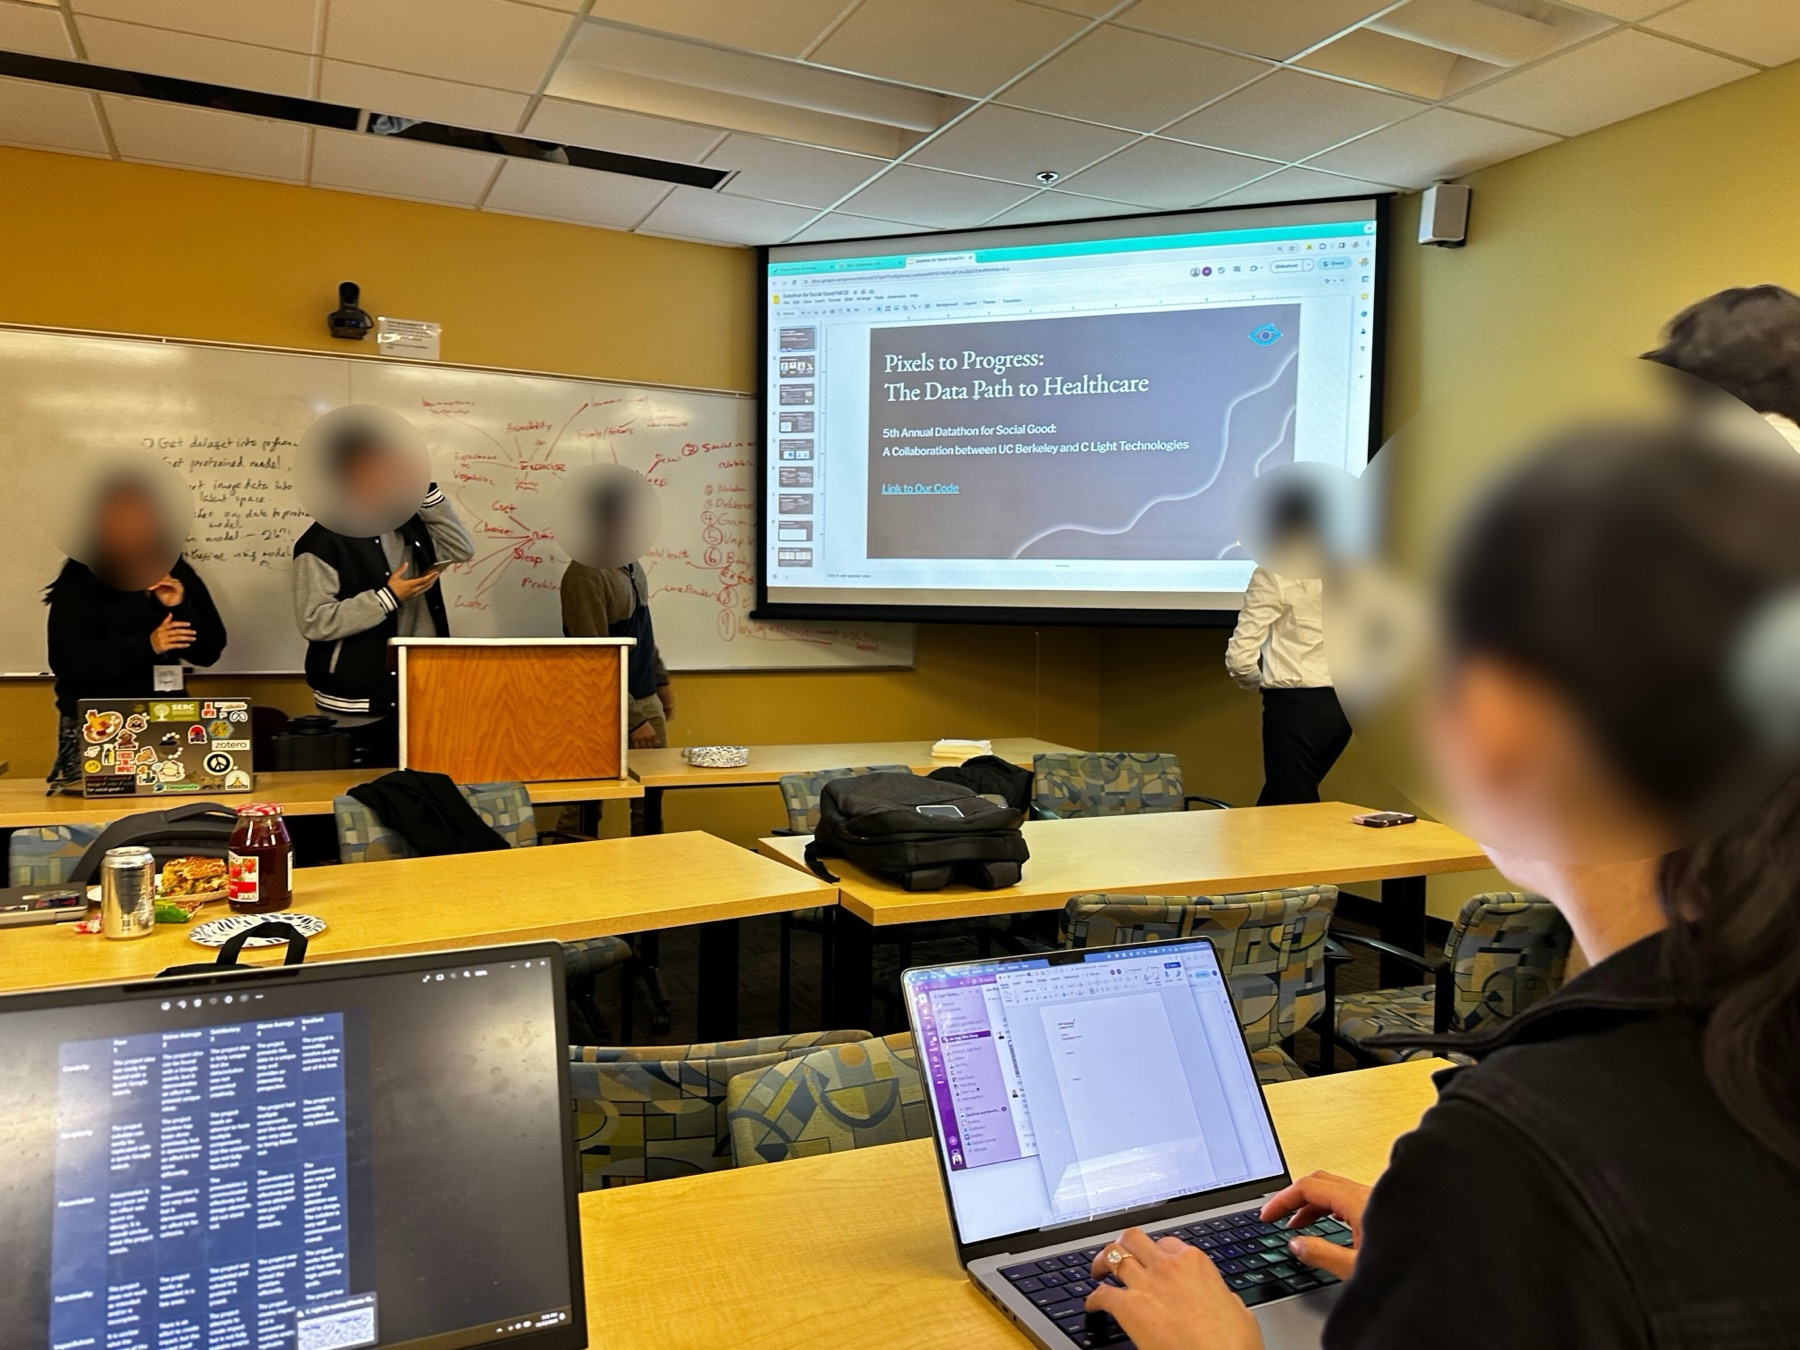
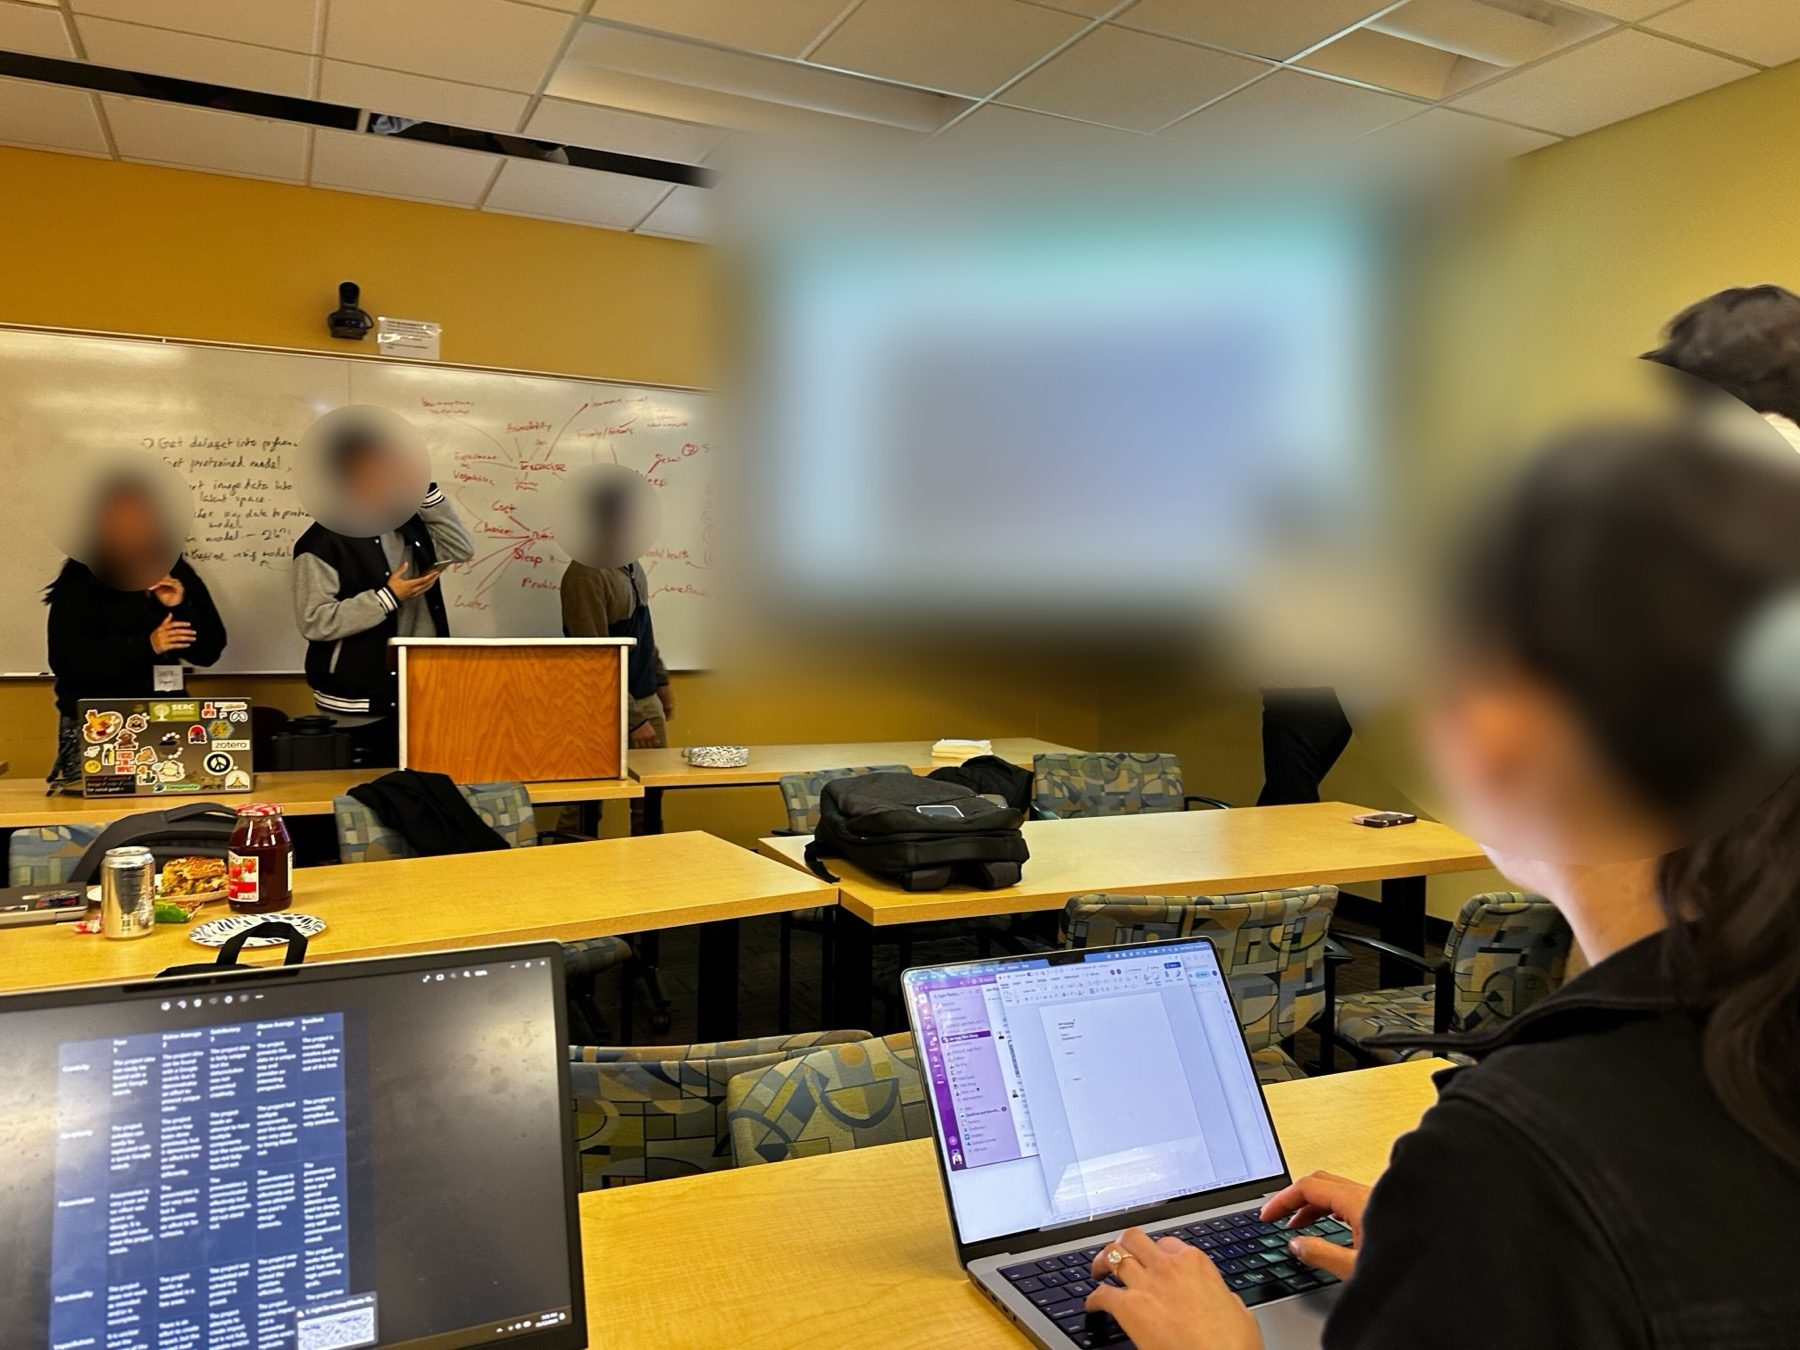
Soften the projector slide and tighten the public copy.

Changed region(s): [[0.3733, 0.0933, 0.84, 0.5289]]

diff --git a/index.html b/index.html
@@ -49,7 +49,7 @@
       <div class="wrap prose">
         <h2>The interview is changing.</h2>
         <p>AI coding tools write a lot of the first draft now. What a hiring team still has to see is judgment: what a person asks, what they throw out, and how they explain a messy result.</p>
-        <p>A résumé lists courses. It rarely shows curiosity, or how someone works when another person is in the room. The hub is that room. Students meet a real dataset earlier, and companies meet the people behind the work.</p>
+        <p>A resume lists courses. It rarely shows curiosity, or how someone works when another person is in the room. The hub is that room. Students meet a real dataset earlier, and companies meet the people behind the work.</p>
       </div>
     </section>
 
@@ -69,10 +69,10 @@
     <section class="experience" id="experience">
       <div class="wrap">
         <h2>Past experience with a Datathon at UC Berkeley</h2>
-        <p class="prose">In November 2023, Joe Xing helped host UC Berkeley’s fifth annual Datathon for Social Good. He was a sponsor and an advisor, with C. Light Technologies, and he designed problems for data science and machine learning students. He sat with the teams while they worked.</p>
+        <p class="prose">In November 2023, Joe Xing helped host UC Berkeley’s fifth annual Datathon for Social Good. He was a sponsor and an advisor, and he designed problems for data science and machine learning students. He sat with the teams while they worked.</p>
         <div class="frames">
           <figure class="wide">
-            <img src="assets/photos/presentation.jpg" alt="Students presenting in a classroom. Faces are softened. The screen reads Pixels to Progress, The Data Path to Healthcare, fifth annual Datathon for Social Good.">
+            <img src="assets/photos/presentation.jpg" alt="Students presenting in a classroom. Faces are softened, and the projector slide is softened.">
             <figcaption>Fifth annual Datathon for Social Good, November 2023. Faces in these photographs are softened.</figcaption>
           </figure>
           <div class="stack">
@@ -95,7 +95,7 @@
         <div class="rail-head">
           <div>
             <h2>Companies we want in the room</h2>
-            <p class="prose">Possible partners for the AI Data Hub. None of these companies has signed on for it. Each plate is a kind of problem students could take on.</p>
+            <p class="prose">These companies are in The Job Forum network. Each plate is a kind of problem students could take on.</p>
           </div>
           <div class="controls">
             <button type="button" data-prev aria-label="Previous company">Prev</button>
@@ -180,7 +180,7 @@
           </div>
           <div>
             <h3>Joe Xing</h3>
-            <p>A Stanford- and CERN-trained scientist, volunteering with Janet on the hub. He has co-founded several companies, raised more than $10 million, and brought an FDA-cleared medical product to market. He co-founded C. Light Technologies, a UC Berkeley spinout.</p>
+            <p>A Stanford- and CERN-trained scientist, volunteering with Janet on the hub. He has co-founded several companies and brought an FDA-cleared medical product to market. A UC Berkeley spinout founder, he is now founder of <a href="https://clinicaltoken.com">Clinical Token</a>, a new AI for healthcare initiative.</p>
           </div>
         </div>
         <p><a class="button" href="mailto:Jbeach@usmarketingservices.com?subject=AI%20Data%20Hub">Write to Janet Beach</a></p>

diff --git a/styles.css b/styles.css
@@ -364,6 +364,10 @@ h2 {
 
 .conversation p { max-width: var(--measure); }
 
+.people a {
+  color: #f3e6cc;
+}
+
 .conversation a.button {
   background: white;
   color: var(--navy);
